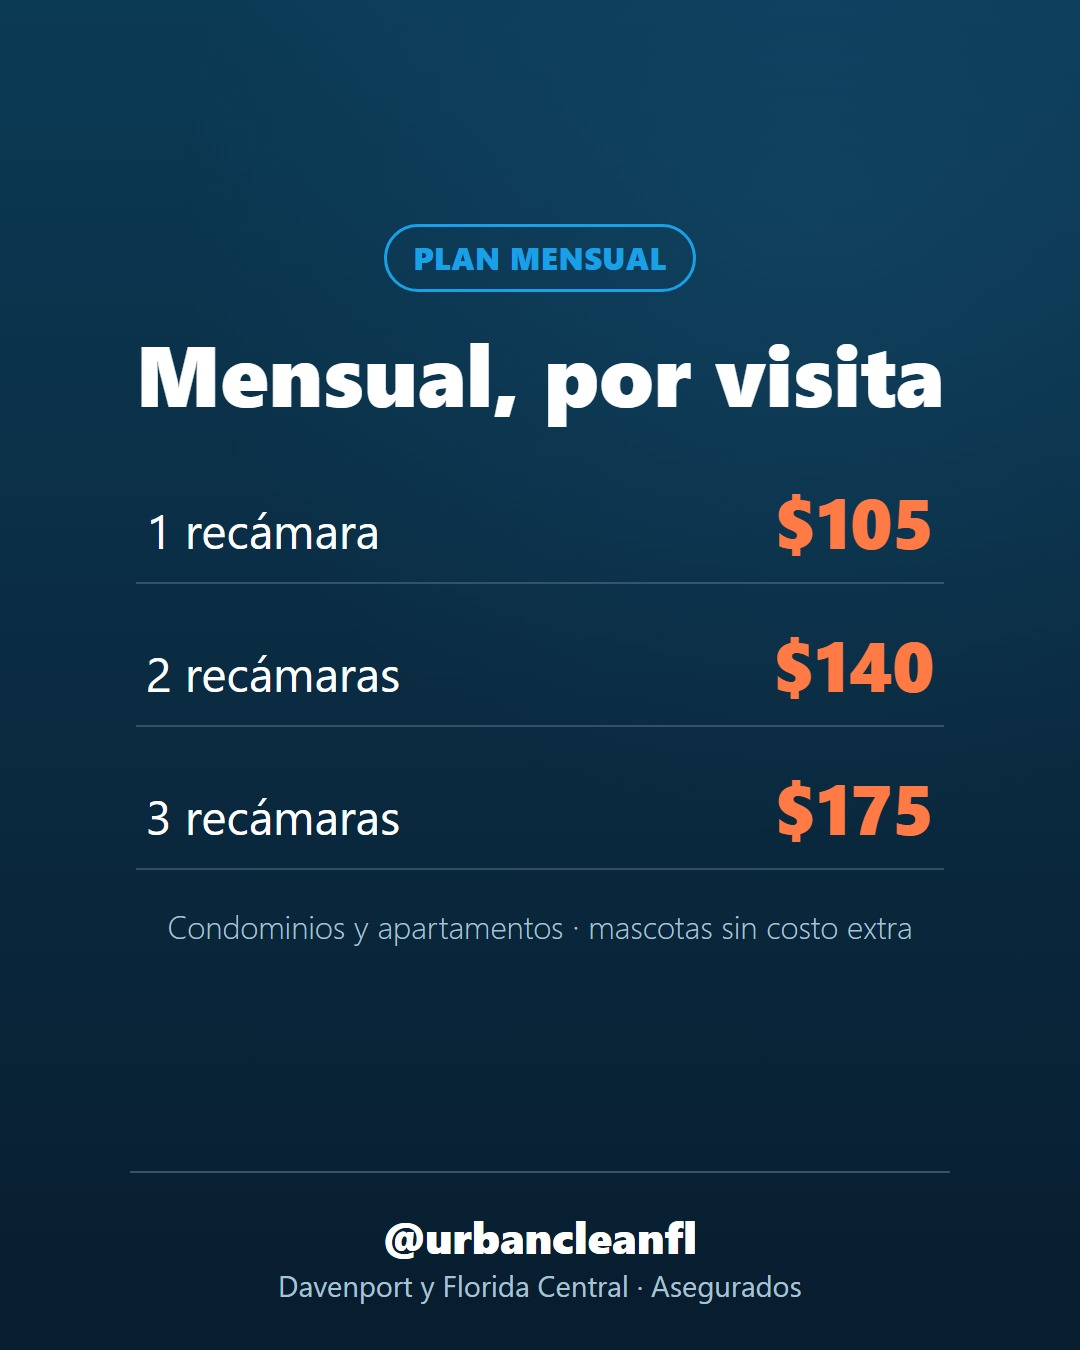
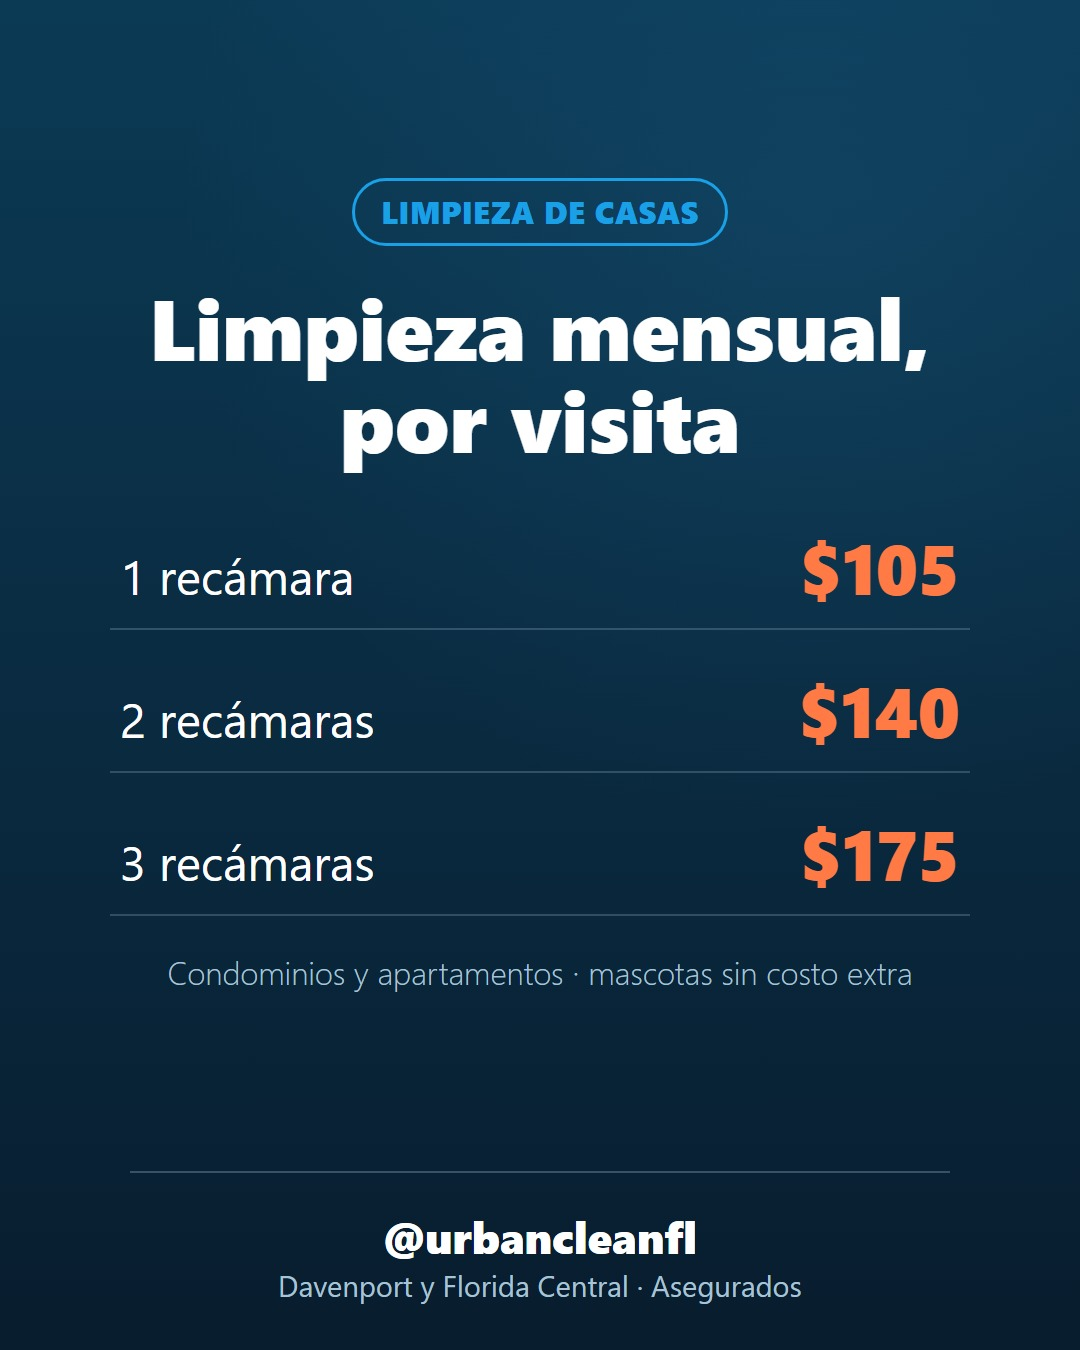
fix(social): cards de preco nomeiam o servico; card proprio para anuncio

diff --git a/tools/social/posts.js b/tools/social/posts.js
@@ -20,7 +20,7 @@ const posts = [
     es: `Tu microondas no necesita que lo talles. Necesita vapor.\n\nUn tazón apto para microondas, una taza de agua y una rodaja de limón. Tres minutos en alto y deja la puerta cerrada dos minutos más. La grasa se ablanda y sale con una sola pasada.` },
 
   { slug: 'price-weekly-en', kind: 'price', type: 'price',
-    label: 'WEEKLY PLAN', headline: 'Weekly, per visit',
+    label: 'HOUSE CLEANING', headline: 'Weekly cleaning, per visit',
     rows: [['1 bedroom', '$75'], ['2 bedrooms', '$99'], ['3 bedrooms', '$125']],
     note: 'Condos & apartments · pets at no extra charge',
     en: `Weekly cleaning, per visit:\n1 bedroom $75. 2 bedrooms $99. 3 bedrooms $125.\n\nWeekly is the cheapest per visit because the house never gets far from clean. Less buildup, less time, lower price. Dogs and cats don't change the number.`,
@@ -130,7 +130,7 @@ const posts = [
     es: `La isla es la superficie más usada de la casa, por eso es lo primero que se ve.\n\nEmpezamos por ahí en cada visita. La despejamos, la limpiamos y secamos la piedra para que no queden marcas cuando le pega la luz de la tarde.` },
 
   { slug: 'price-monthly-es', kind: 'price', type: 'price',
-    label: 'PLAN MENSUAL', headline: 'Mensual, por visita',
+    label: 'LIMPIEZA DE CASAS', headline: 'Limpieza mensual, por visita',
     rows: [['1 recámara', '$105'], ['2 recámaras', '$140'], ['3 recámaras', '$175']],
     note: 'Condominios y apartamentos · mascotas sin costo extra',
     en: `Monthly cleaning, per visit:\n1 bedroom $105. 2 bedrooms $140. 3 bedrooms $175.\n\nGood for people who keep up with the basics and want a real reset once a month. Same team, same checklist, photos when we finish.`,
@@ -190,4 +190,11 @@ const posts = [
     es: `Las líneas de polvo alrededor de las rejillas del aire son, primero, un problema del filtro.\n\nEn Florida central el aire está prendido casi todo el año, así que el filtro se llena más rápido de lo que dice la caja. Revísalo cada mes y cámbialo cuando se vea gris. Luego limpia las rejillas con microfibra húmeda. También habrá menos polvo en todo lo demás.` },
 ];
 
-module.exports = { posts, CTA, TAGS, WA };
+// Cards usados so em anuncios (nao entram na fila organica)
+const ads = [
+  { slug: 'ad-from75-en', type: 'price', label: 'DAVENPORT · CONDOS & APARTMENTS', headline: 'House cleaning from $75',
+    rows: [['1 bedroom', '$75'], ['2 bedrooms', '$99'], ['3 bedrooms', '$125']],
+    note: 'Per visit with weekly cleaning · pets free · $15 off first visits' },
+];
+
+module.exports = { posts, ads, CTA, TAGS, WA };

diff --git a/tools/social/build.js b/tools/social/build.js
@@ -2,7 +2,7 @@
 // Depois: dev-browser --headless < tools/social/render.devbrowser.js  (gera os JPGs no temp do dev-browser)
 const fs = require('fs');
 const path = require('path');
-const { posts, CTA, TAGS, WA } = require('./posts');
+const { posts, ads, CTA, TAGS, WA } = require('./posts');
 
 const SITE = 'https://www.urbancleanfl.com/assets/social/';
 const ROOT = path.join(__dirname, '..', '..');
@@ -62,7 +62,7 @@ queue.forEach((q, k) => { q.slot = k + 1; });
 fs.writeFileSync(path.join(ROOT, 'assets/social/queue.json'),
   JSON.stringify(queue.map(({ _file, ...q }) => ({ slot: q.slot, ...q })), null, 2) + '\n');
 
-const toRender = posts.filter(p => p.type !== 'photo').map(p => ({ name: `${p.slug}.jpg`, html: card(p) }));
+const toRender = posts.concat(ads).filter(p => p.type !== 'photo').map(p => ({ name: `${p.slug}.jpg`, html: card(p) }));
 fs.writeFileSync(path.join(__dirname, 'render.devbrowser.js'),
 `const cards = ${JSON.stringify(toRender)};
 const page = await browser.getPage("social-render");
